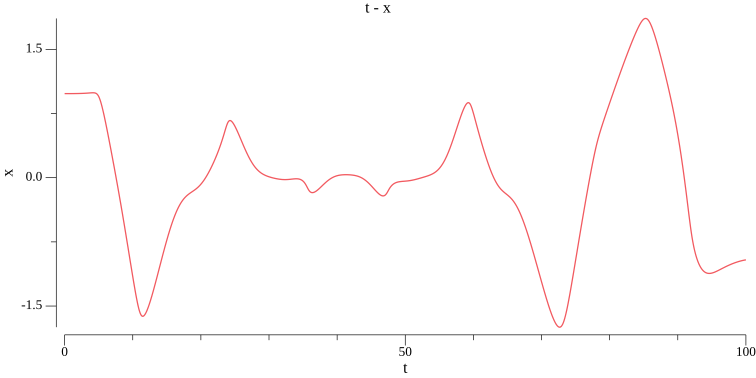
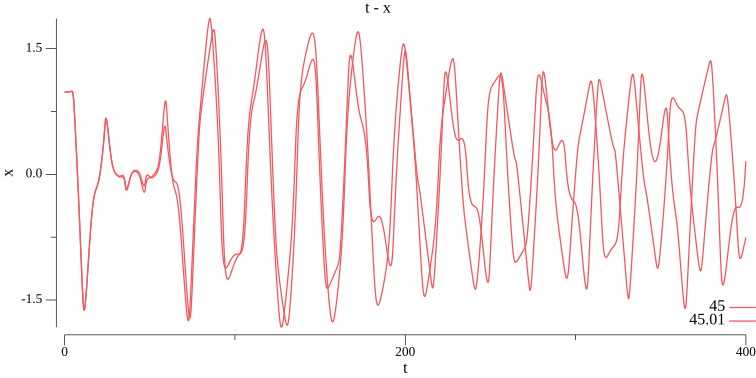
Updated eom.png, line.go and main.go.

diff --git a/main.go b/main.go
@@ -1,6 +1,8 @@
 package main
 
 import (
+	"image/color"
+	"log"
 	"math"
 
 	"gonum.org/v1/plot/plotter"
@@ -20,7 +22,7 @@ const (
 
 func main() {
 	var points []data
-	for i := 0; i <= 10000; i++ {
+	for i := 0; i <= 4000; i++ {
 		if i == 0 {
 			// as inital value for x we use x0
 			points = append(points, data{y1: th1 / math.Pi, y2: v1 / math.Pi, y3: th2 / math.Pi, y4: v2 / math.Pi})
@@ -31,14 +33,43 @@ func main() {
 			points = append(points, d)
 		}
 	}
-	line1 := line{}
-	for i := 0; i <= 1000; i++ {
+	var points2 plotter.XYs
+	for i := 0; i <= 4000; i++ {
 		t := float64(i) / 10.0
-		line1.points = append(line1.points, plotter.XY{
+		points2 = append(points2, plotter.XY{
 			X: t,
 			Y: l1*math.Sin(points[i].y1) + l2*math.Sin(points[i].y3),
 		})
 	}
+	line1, err := plotter.NewLine(points2)
+	if err != nil {
+		log.Fatalf("could not create line: %+v", err)
+	}
+	var points3 []data
+	for i := 0; i <= 4000; i++ {
+		if i == 0 {
+			// as inital value for x we use x0
+			points3 = append(points3, data{y1: (th1 + 0.01) / math.Pi, y2: v1 / math.Pi, y3: th2 / math.Pi, y4: v2 / math.Pi})
+		} else {
+			deltat := 1 / 100.0
+			t := float64(i) / 10.0
+			d := angles(points3[i-1], t, deltat)
+			points2 = append(points2, d)
+		}
+	}
+	var points4 plotter.XYs
+	for i := 0; i <= 4000; i++ {
+		t := float64(i) / 10.0
+		points4 = append(points4, plotter.XY{
+			X: t,
+			Y: l1*math.Sin(points3[i].y1) + l2*math.Sin(points3[i].y3),
+		})
+	}
+	line2, err := plotter.NewLine(points4)
+	if err != nil {
+		log.Fatalf("could not create line: %+v", err)
+	}
+	line2.LineStyle.Color = color.RGBA{R: 0, G: 255, B: 0, A: 255}
 	b := bounds{
 		xmin: 0,
 		xmax: 5,
@@ -49,5 +80,5 @@ func main() {
 		x: "t",
 		y: "x",
 	}
-	CreateLineplotPlot("t - x", l, b, "eom.png", line1)
+	CreateLineplotPlot("t - x", l, b, "eom.png", line1, line2)
 }

diff --git a/line.go b/line.go
@@ -9,12 +9,7 @@ import (
 	"gonum.org/v1/plot/vg"
 )
 
-type line struct {
-	label  string
-	points plotter.XYs
-}
-
-func CreateLineplotPlot(title string, labels labels, bounds bounds, file string, lines ...line) {
+func CreateLineplotPlot(title string, labels labels, bounds bounds, file string, lines ...*plotter.Line) {
 	p := plot.New()
 	p.Title.Text = title
 	p.X.Label.Text = labels.x
@@ -22,7 +17,7 @@ func CreateLineplotPlot(title string, labels labels, bounds bounds, file string,
 	p.X.Min, p.X.Max, p.Y.Min, p.Y.Max = bounds.xmin, bounds.xmax, bounds.ymin, bounds.ymax
 
 	for _, line := range lines {
-		err := plotutil.AddLines(p, line.label, line.points)
+		err := plotutil.AddLines(p, line)
 		if err != nil {
 			log.Fatalf("could not create lineplot: %+v", err)
 		}
